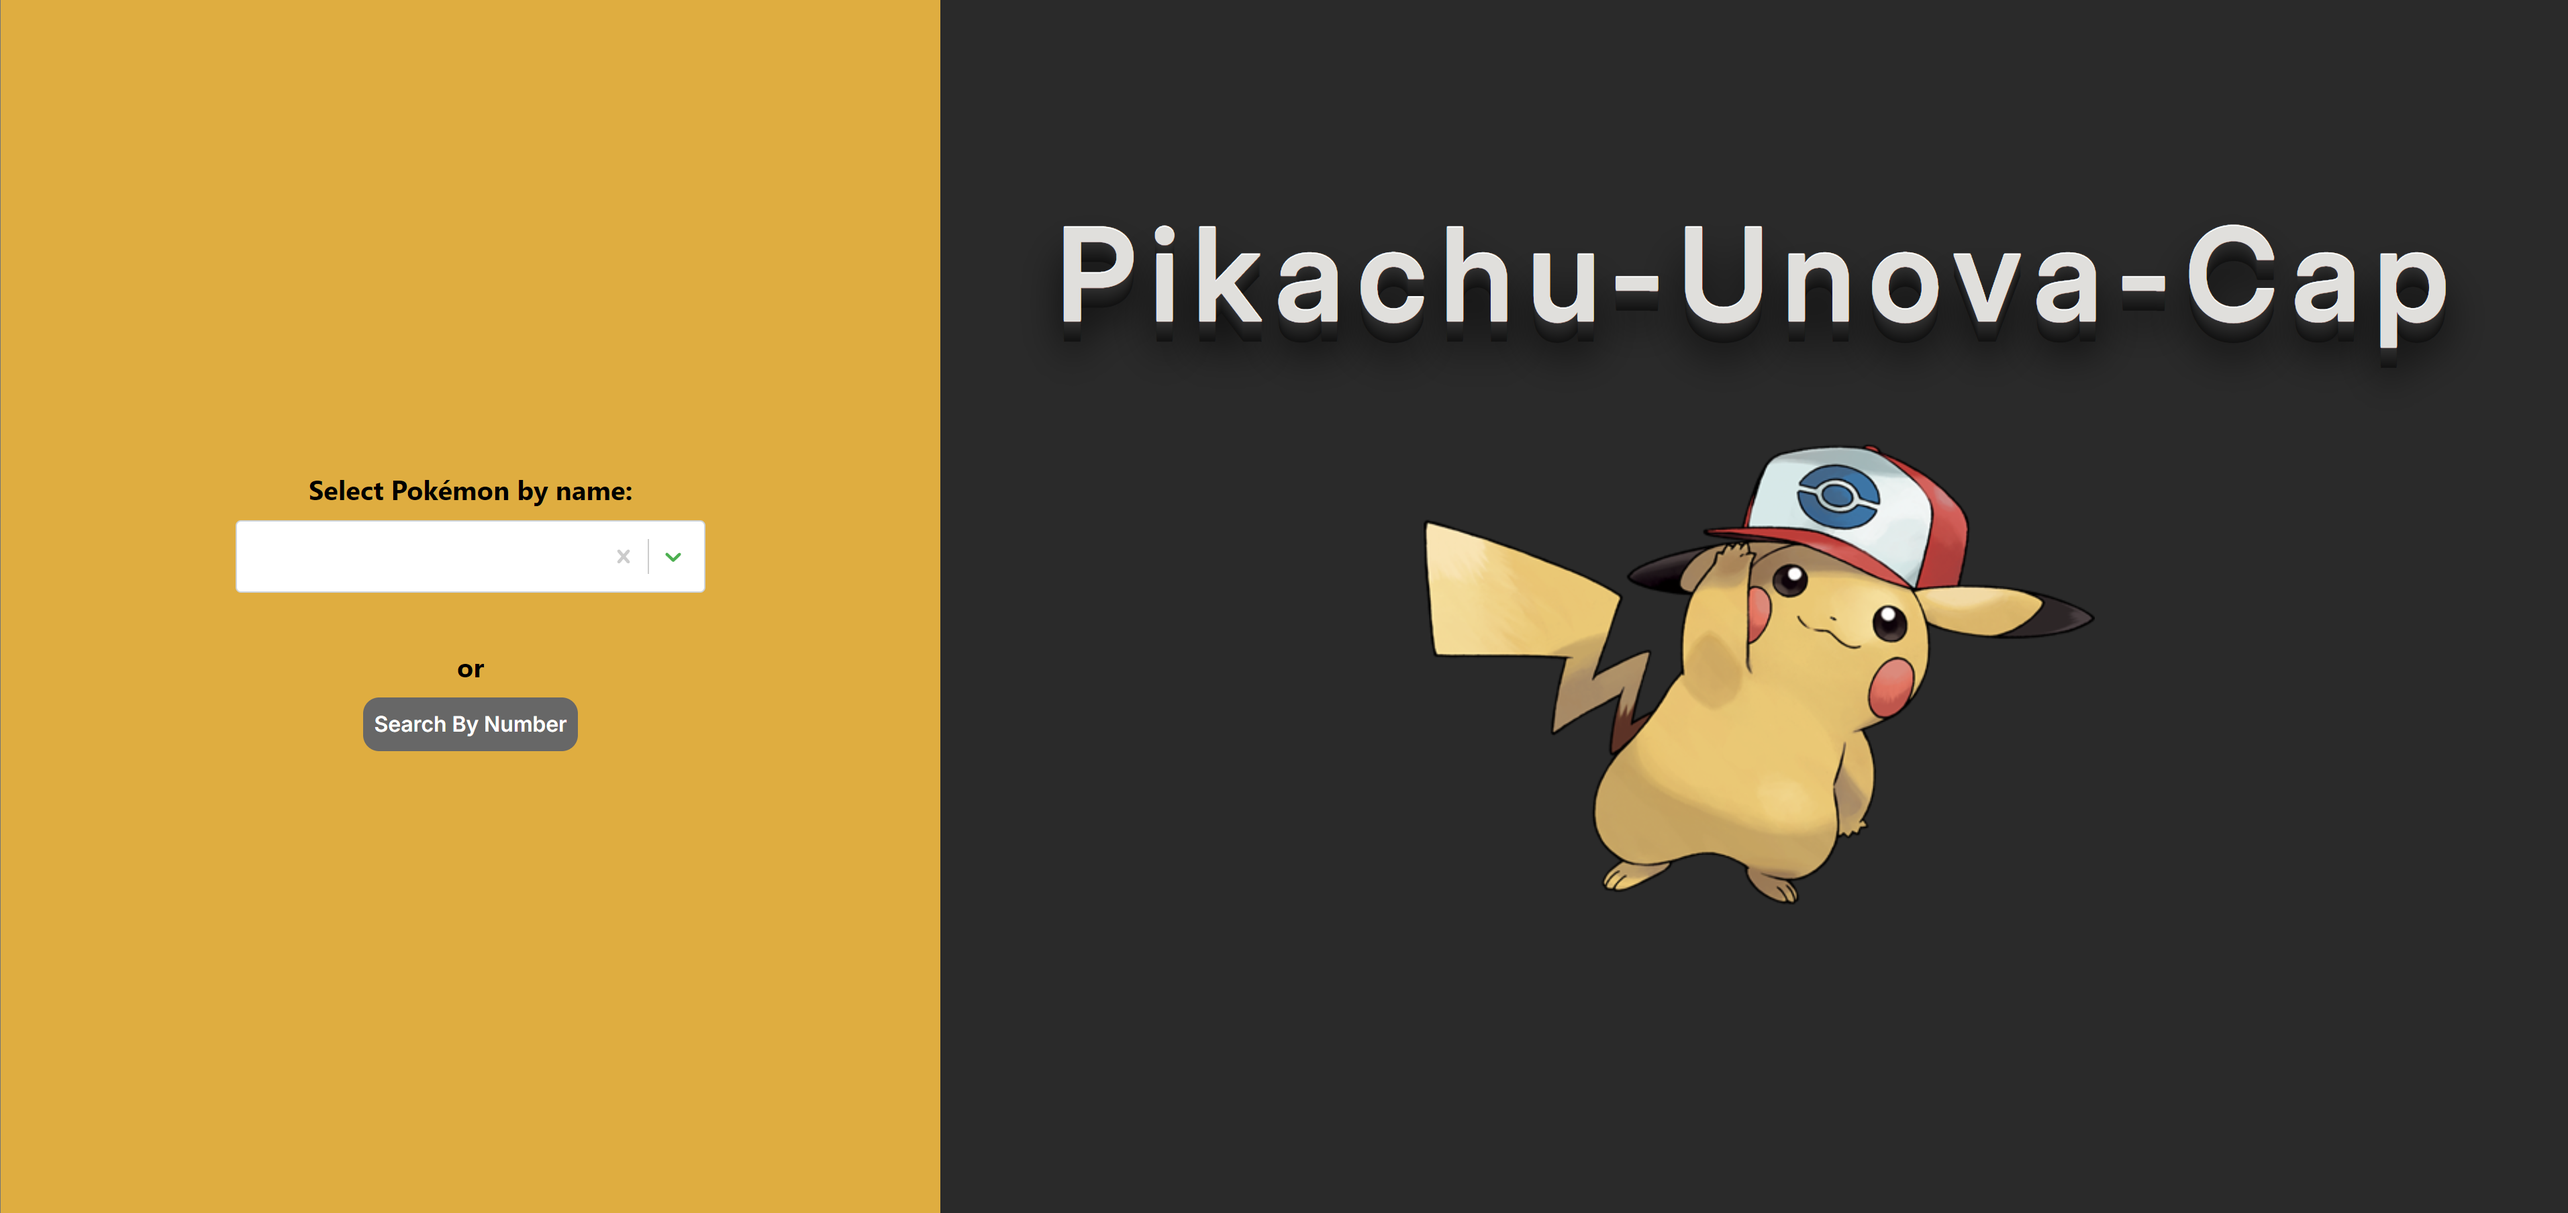
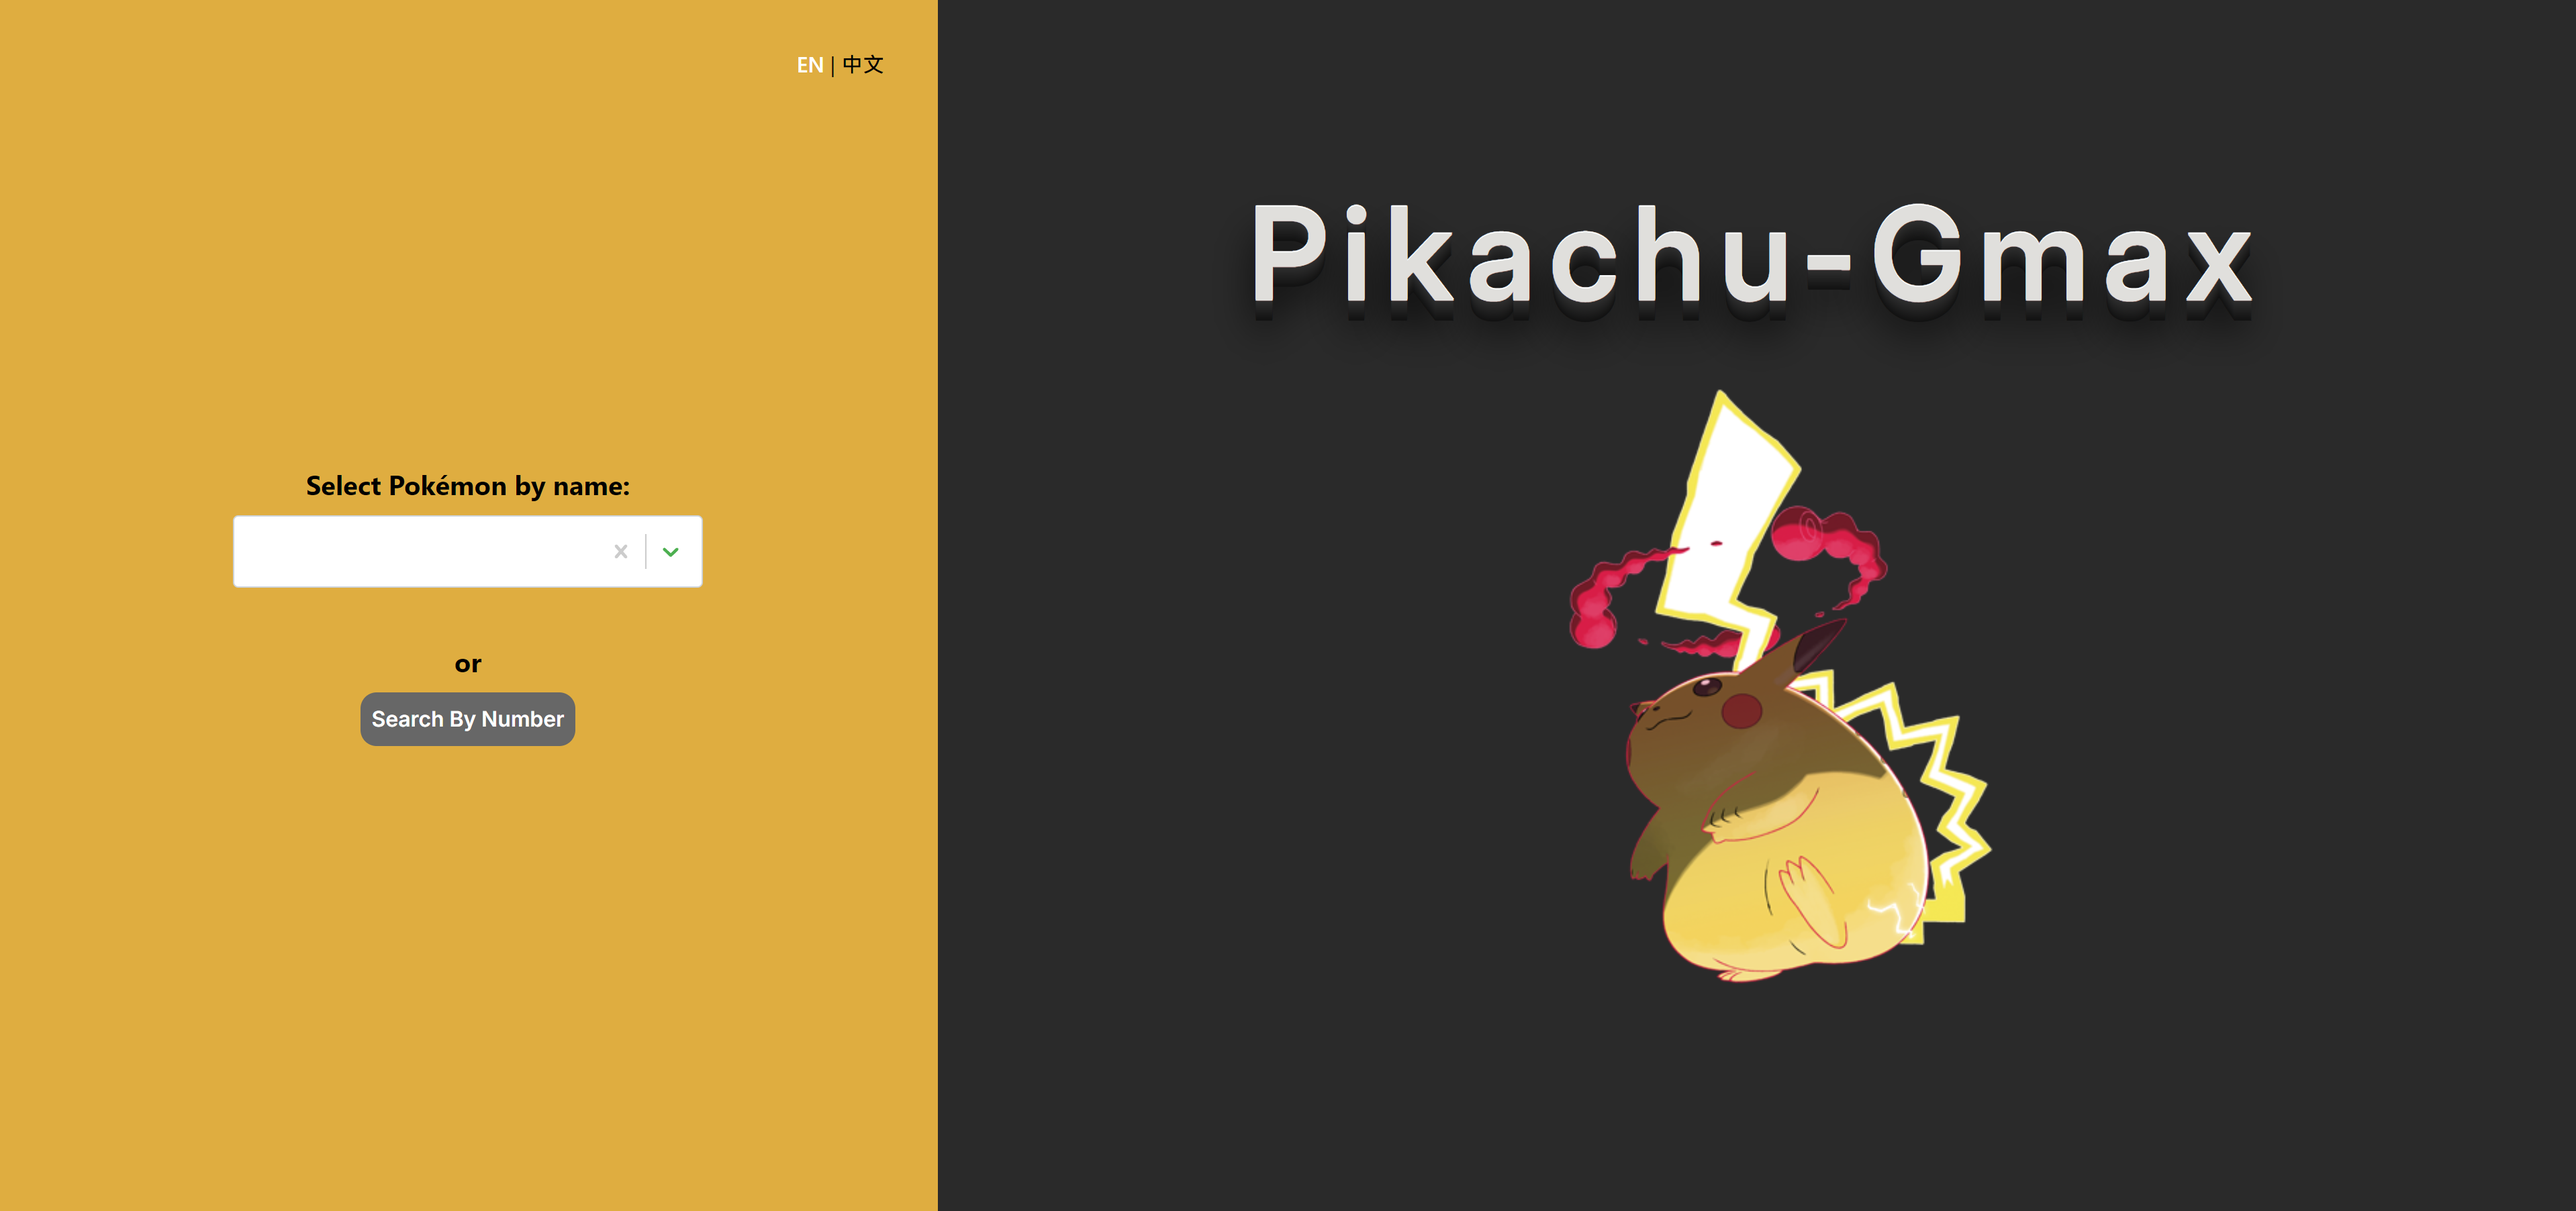
updated cover picture added info about chinese version is description

diff --git a/client/src/pages/Projects.jsx b/client/src/pages/Projects.jsx
@@ -21,7 +21,7 @@ const Projects = () => {
           <ProjectCard
             title="Pokémon Finder"
             img={p7}
-            description="The Pokémon Finder is a simple app that lets you search for Pokémon by name or number. It fetches data from the PokéAPI and displays the Pokémon&#39;s official artwork along with its name."
+            description="The Pokémon Finder is a simple app that lets you search for Pokémon by name or number. It fetches data from the PokéAPI and displays the Pokémon&#39;s official artwork along with its name. supports English and Chinese."
             technologies="React, JS, TailwindCSS"
           />
         </Link>
